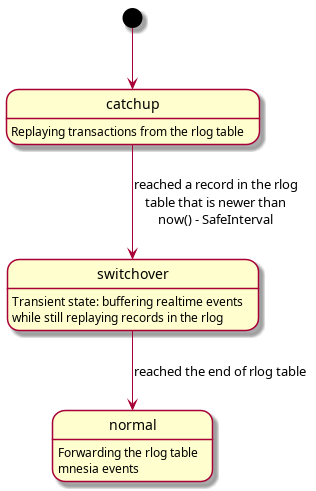
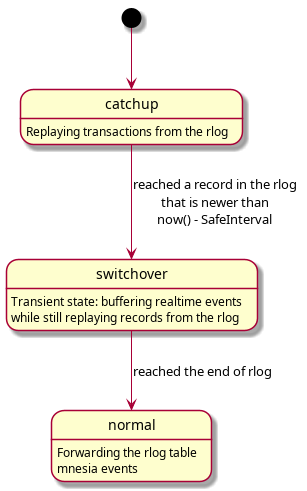
Remove mentions of catching up based on rlog table

Changed region(s): [[0.0, 0.0, 0.9674, 0.8859], [0.1466, 0.8248, 0.7329, 1.0]]

diff --git a/active/0004-async-mnesia-change-log-replication.md b/active/0004-async-mnesia-change-log-replication.md
@@ -6,6 +6,7 @@
 * 2021-03-01: @k32 Minor fixes
 * 2021-03-05: @k32 Add more test scenarios and elaborate on the push model.
 * 2021-03-11: @k32 Elaborate transaction key generation
+* 2021-03-11: @k32 Add MSC diagrams for the bootstrap process
 
 ## Abstract
 
@@ -128,24 +129,24 @@ The benefit of this solution is that it allows to use the contents of the `rlog`
 #### RLOG Server
 
 RLOG server is a `gen_server` process that runs on the core node.
-It is responsible for the initial communication with the RLOG replica proceeses, and spawning RLOG agent and RLOG bootstrapper processes.
+It is responsible for the initial communication with the RLOG replica processes, and spawning RLOG agent and RLOG bootstrapper processes.
 
 #### RLOG Agent
 
 RLOG agent is a `gen_statem` process that runs on the core node.
 This processes' lifetime is tied to the lifetime of the remote RLOG replica process.
 It is responsible for pushing the transaction ops from the core node to the replicant node.
-The agent operates in two modes: `catchup` where it reads transactions from the rlog table, and `normal` where it forwards mnesia events for the rlog table.
-There should be a third transient state called `switchover` where the agent subscribes to the mnesia events, while still consuming from the rlog table.
+The agent operates in two modes: `catchup` where it reads transactions from the rlog, and `normal` where it forwards realtime mnesia events.
+There should be a third transient state called `switchover` where the agent subscribes to the mnesia events, while still consuming from the rlog.
 This is to ensure overlap between the stored transactions and the events.
 
-![Agent FSM](0004-assets/agnet-fsm.png)
+![Agent FSM](0004-assets/agent-fsm.png)
 
-#### RLOG Replicant
+#### RLOG Replica
 
-RLOG replicant is a `gen_statem` process that runs on the replicant node.
+RLOG replica is a `gen_statem` process that runs on the replicant node.
 It spawns during the node startup under the `rlog` supervisor, and is restarted indefinitely.
-It talks to the RLOG server in the `init` callback, and establishes connection to the RLOG agent process.
+It talks to the RLOG server in its `init` callback, and establishes connection to the remote RLOG agent process.
 In some cases it also creates a bootstrap client process and manages it.
 
 ![Replicant FSM](0004-assets/replicant-fsm.png)
@@ -154,7 +155,7 @@ In some cases it also creates a bootstrap client process and manages it.
 
 RLOG bootstrapper is a simple `gen_server` process that runs on the core node.
 It is spawned by RLOG server when the replicant node wishes to be bootstrapped.
-RLOG bootstrapper runs `mnesia:dirty_all_keys` operation on the tables within the replica, and then iterates through the cached keys.
+RLOG bootstrapper runs `mnesia:dirty_all_keys` operation on the tables within the shard, and then iterates through the cached keys.
 For each table and key pair it performs `mnesia:dirty_read` operation and caches the result.
 If the value for the key is missing, such record is ignored.
 Records are sent to the remote process in batches.
@@ -180,7 +181,7 @@ It should be mandatory to shutdown business applications while bootstrap and syn
 
 ### Zombie fencing in push model
 
-In push model, a replicat node should make sure *not* to ingest transaction pushes from a stale core node which may have a zombie agent lingering around.
+In push model, a replicant node should make sure *not* to ingest transaction pushes from a stale core node which may have a zombie agent lingering around.
 i.e. A replicant node should 'remember' which node it is watching, and upon receiving transactions from an unknown node,
 it should reply with a rejection error message for the push calls.
 

diff --git a/README.md b/README.md
@@ -17,6 +17,6 @@ demonstrating the format of EIPs.
 It is possible to add UML diagrams using [PlantUML](https://plantuml.com/).
 In order to do this, create a directory called `active/XXXX-assets` (replace
 `XXXX` with the EIP number), and put the files there. All files should have
-`uml` extention.
+`uml` extension.
 
 Then run `make` to generate the images.
